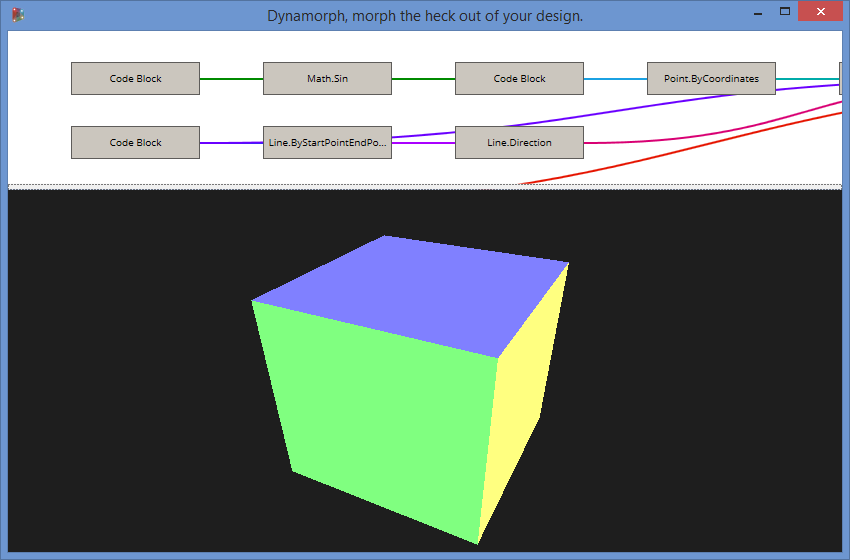
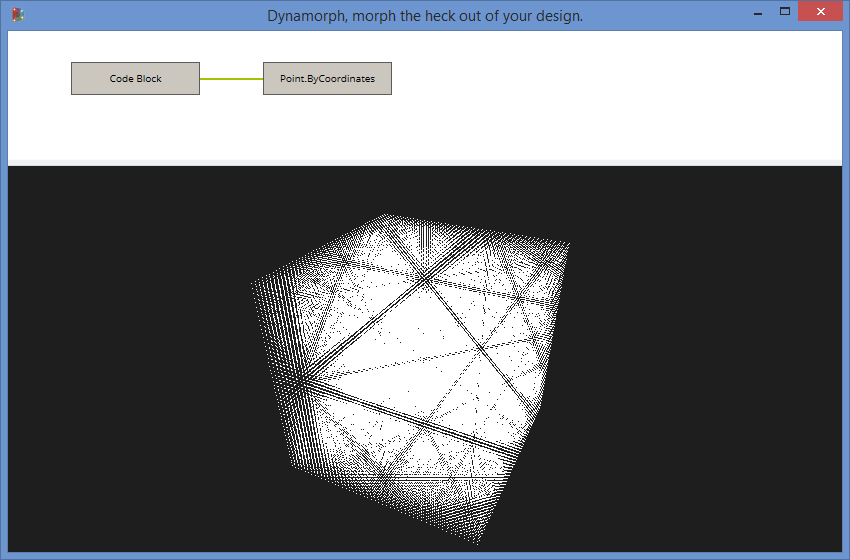
Point rendering now works

diff --git a/src/Extensions/Dynamorph/Dynamorph.Net/DynamorphControl.xaml.cs b/src/Extensions/Dynamorph/Dynamorph.Net/DynamorphControl.xaml.cs
@@ -54,7 +54,8 @@ namespace Dynamorph
 
         public void SetNodeGeometries(Dictionary<Guid, IRenderPackage> geometries)
         {
-            this.visualizer.CurrentVisualizer.UpdateNodeGeometries(geometries);
+            if (visualizer != null && (visualizer.CurrentVisualizer != null))
+                this.visualizer.CurrentVisualizer.UpdateNodeGeometries(geometries);
         }
 
         #endregion

diff --git a/src/Extensions/Dynamorph/Dynamorph.Cpp/Dynamorph.cpp b/src/Extensions/Dynamorph/Dynamorph.Cpp/Dynamorph.cpp
@@ -128,6 +128,8 @@ void Visualizer::UpdateNodeGeometries(Dictionary<Guid, IRenderPackage^>^ geometr
 
     auto pCamera = mpGraphicsContext->GetDefaultCamera();
     pCamera->FitToBoundingBox(&outerBoundingBox);
+
+    ::InvalidateRect(this->mhWndVisualizer, nullptr, true); // Update window.
 }
 
 Visualizer::Visualizer() : 

diff --git a/src/Extensions/Dynamorph/README.md b/src/Extensions/Dynamorph/README.md
@@ -45,5 +45,5 @@ Dynamorph, morph the heck out of your design.
 ## Screenshot Of The Day ##
 This is the latest screenshot of Dynamorph. It will be updated as and when there is any visible change to Dynamorph to reflect the latest development.
 
-#### Nodes are now having their names drawn! :) ####
+#### 50 x 50 x 50 = 125000 points! :) ####
 ![Image](https://raw.githubusercontent.com/Benglin/Dynamo/Recharge_Ben/src/Extensions/Dynamorph/dynamorph-screen.png)
